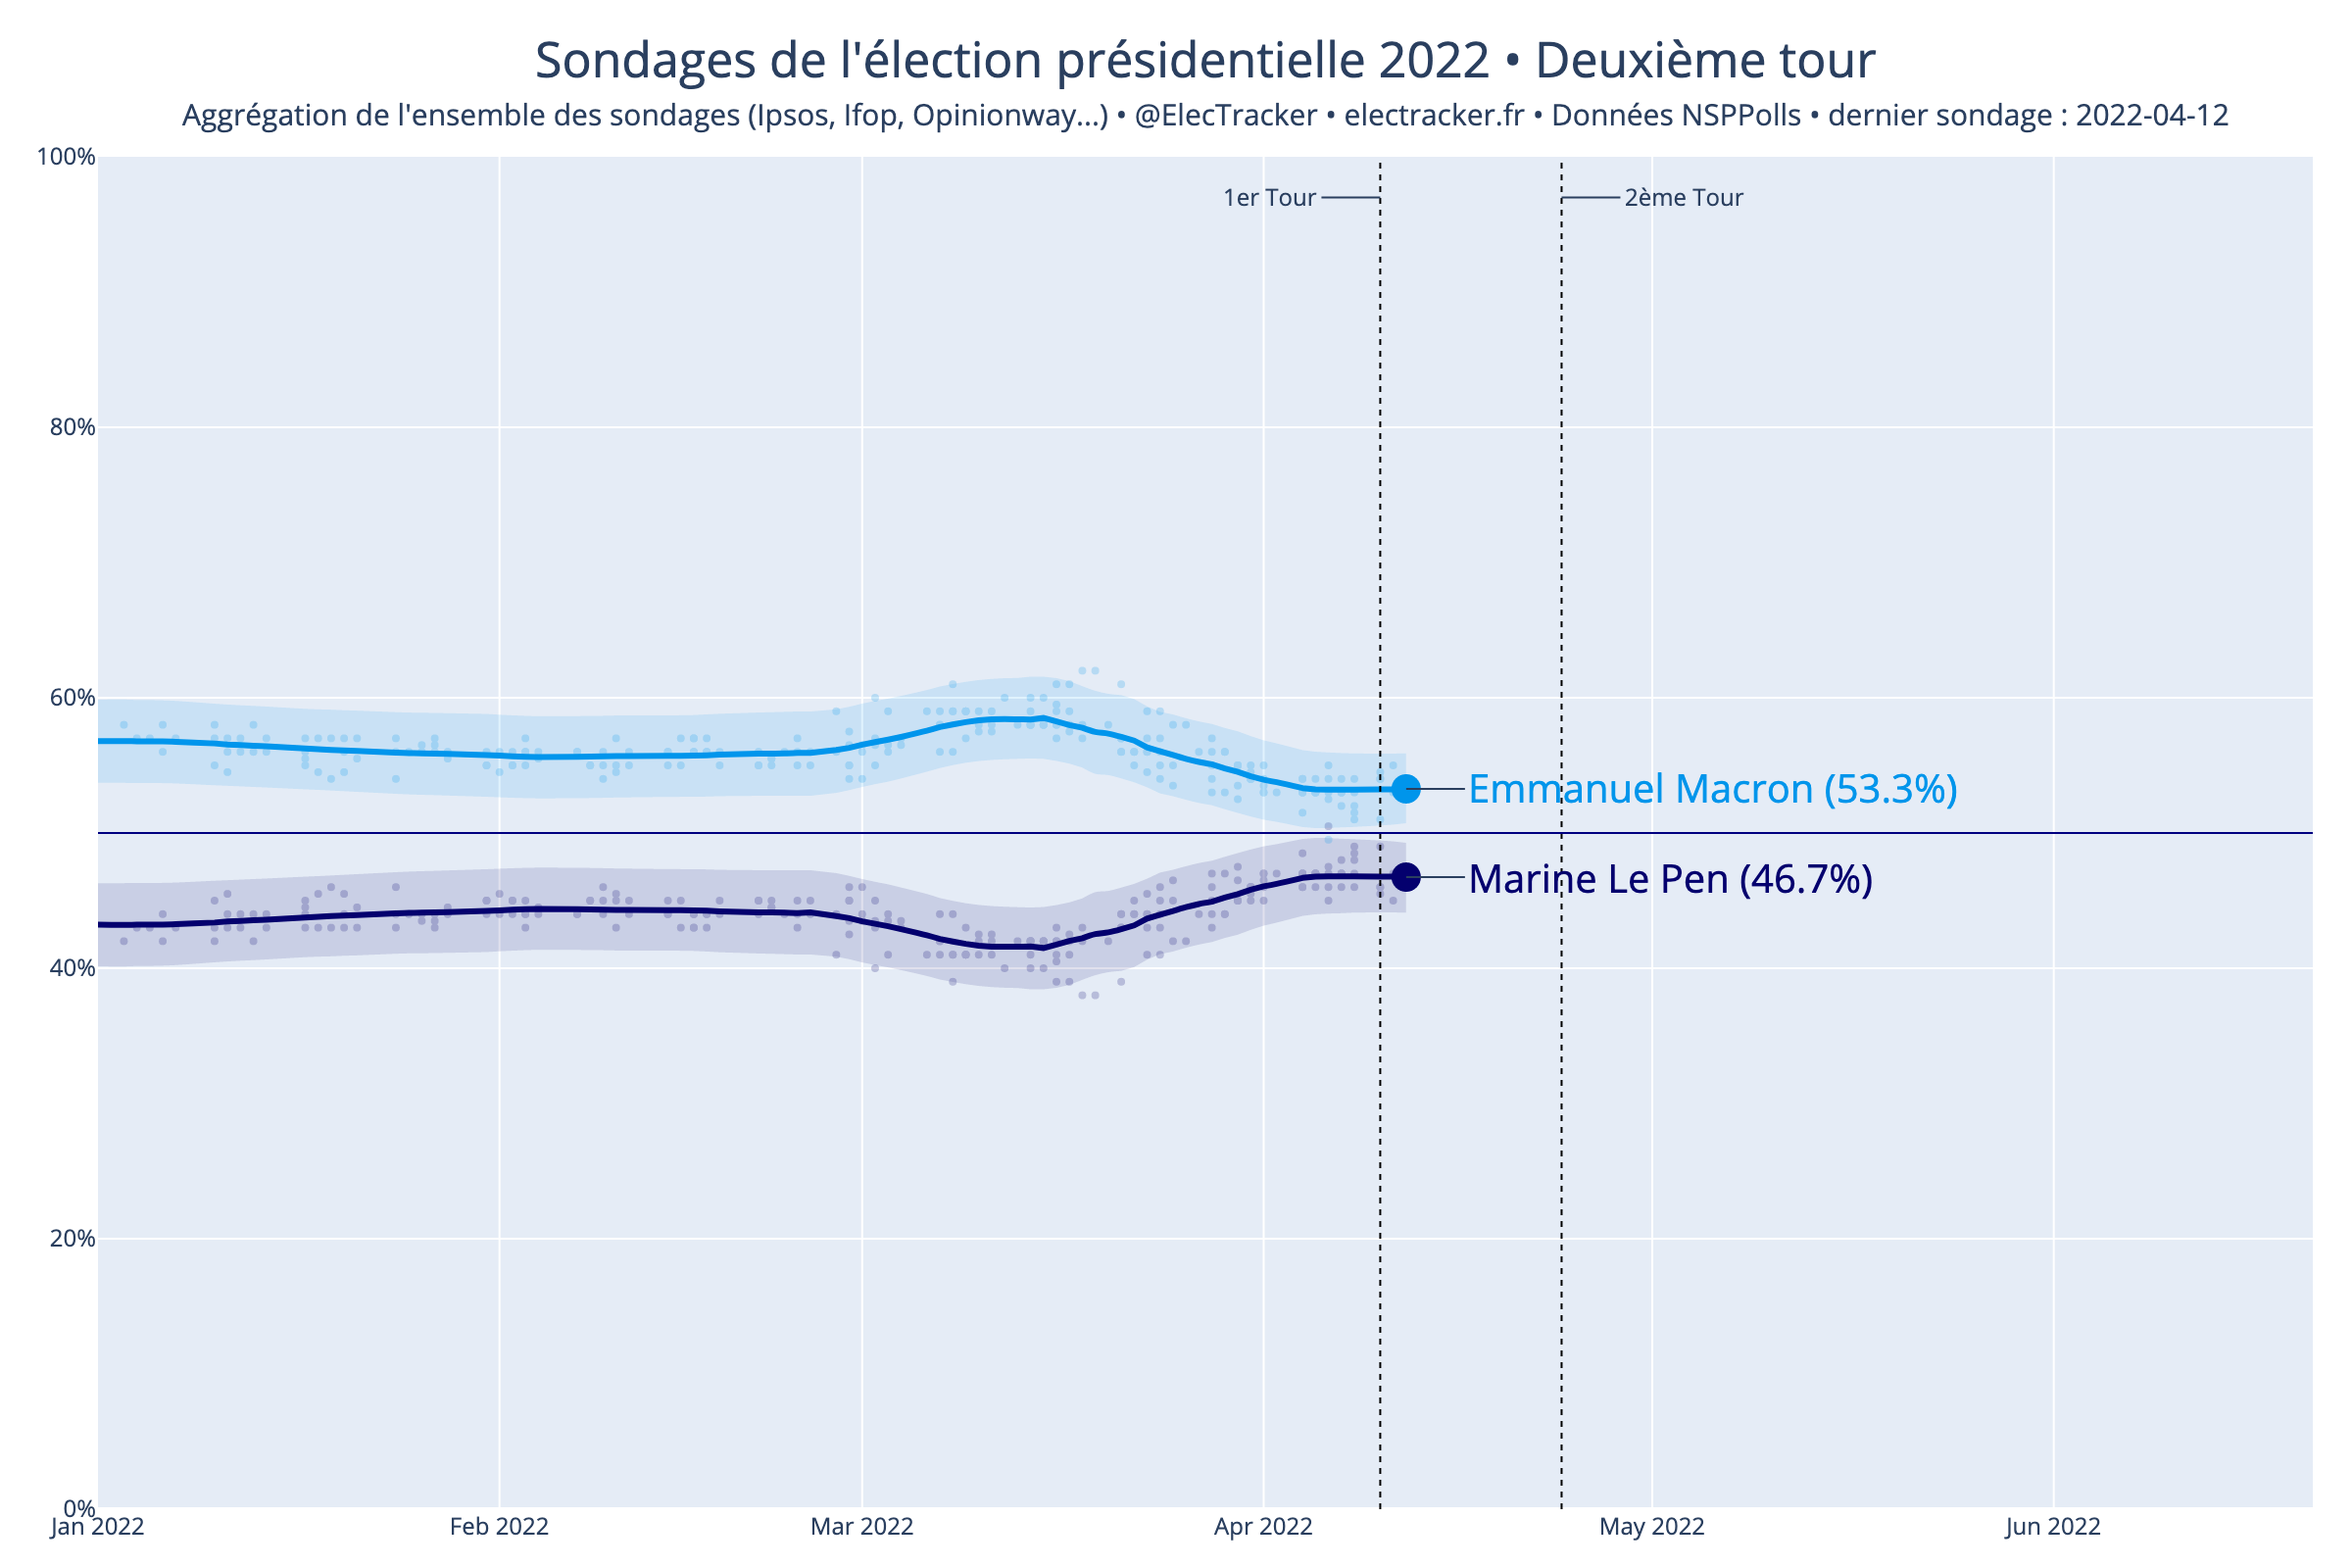
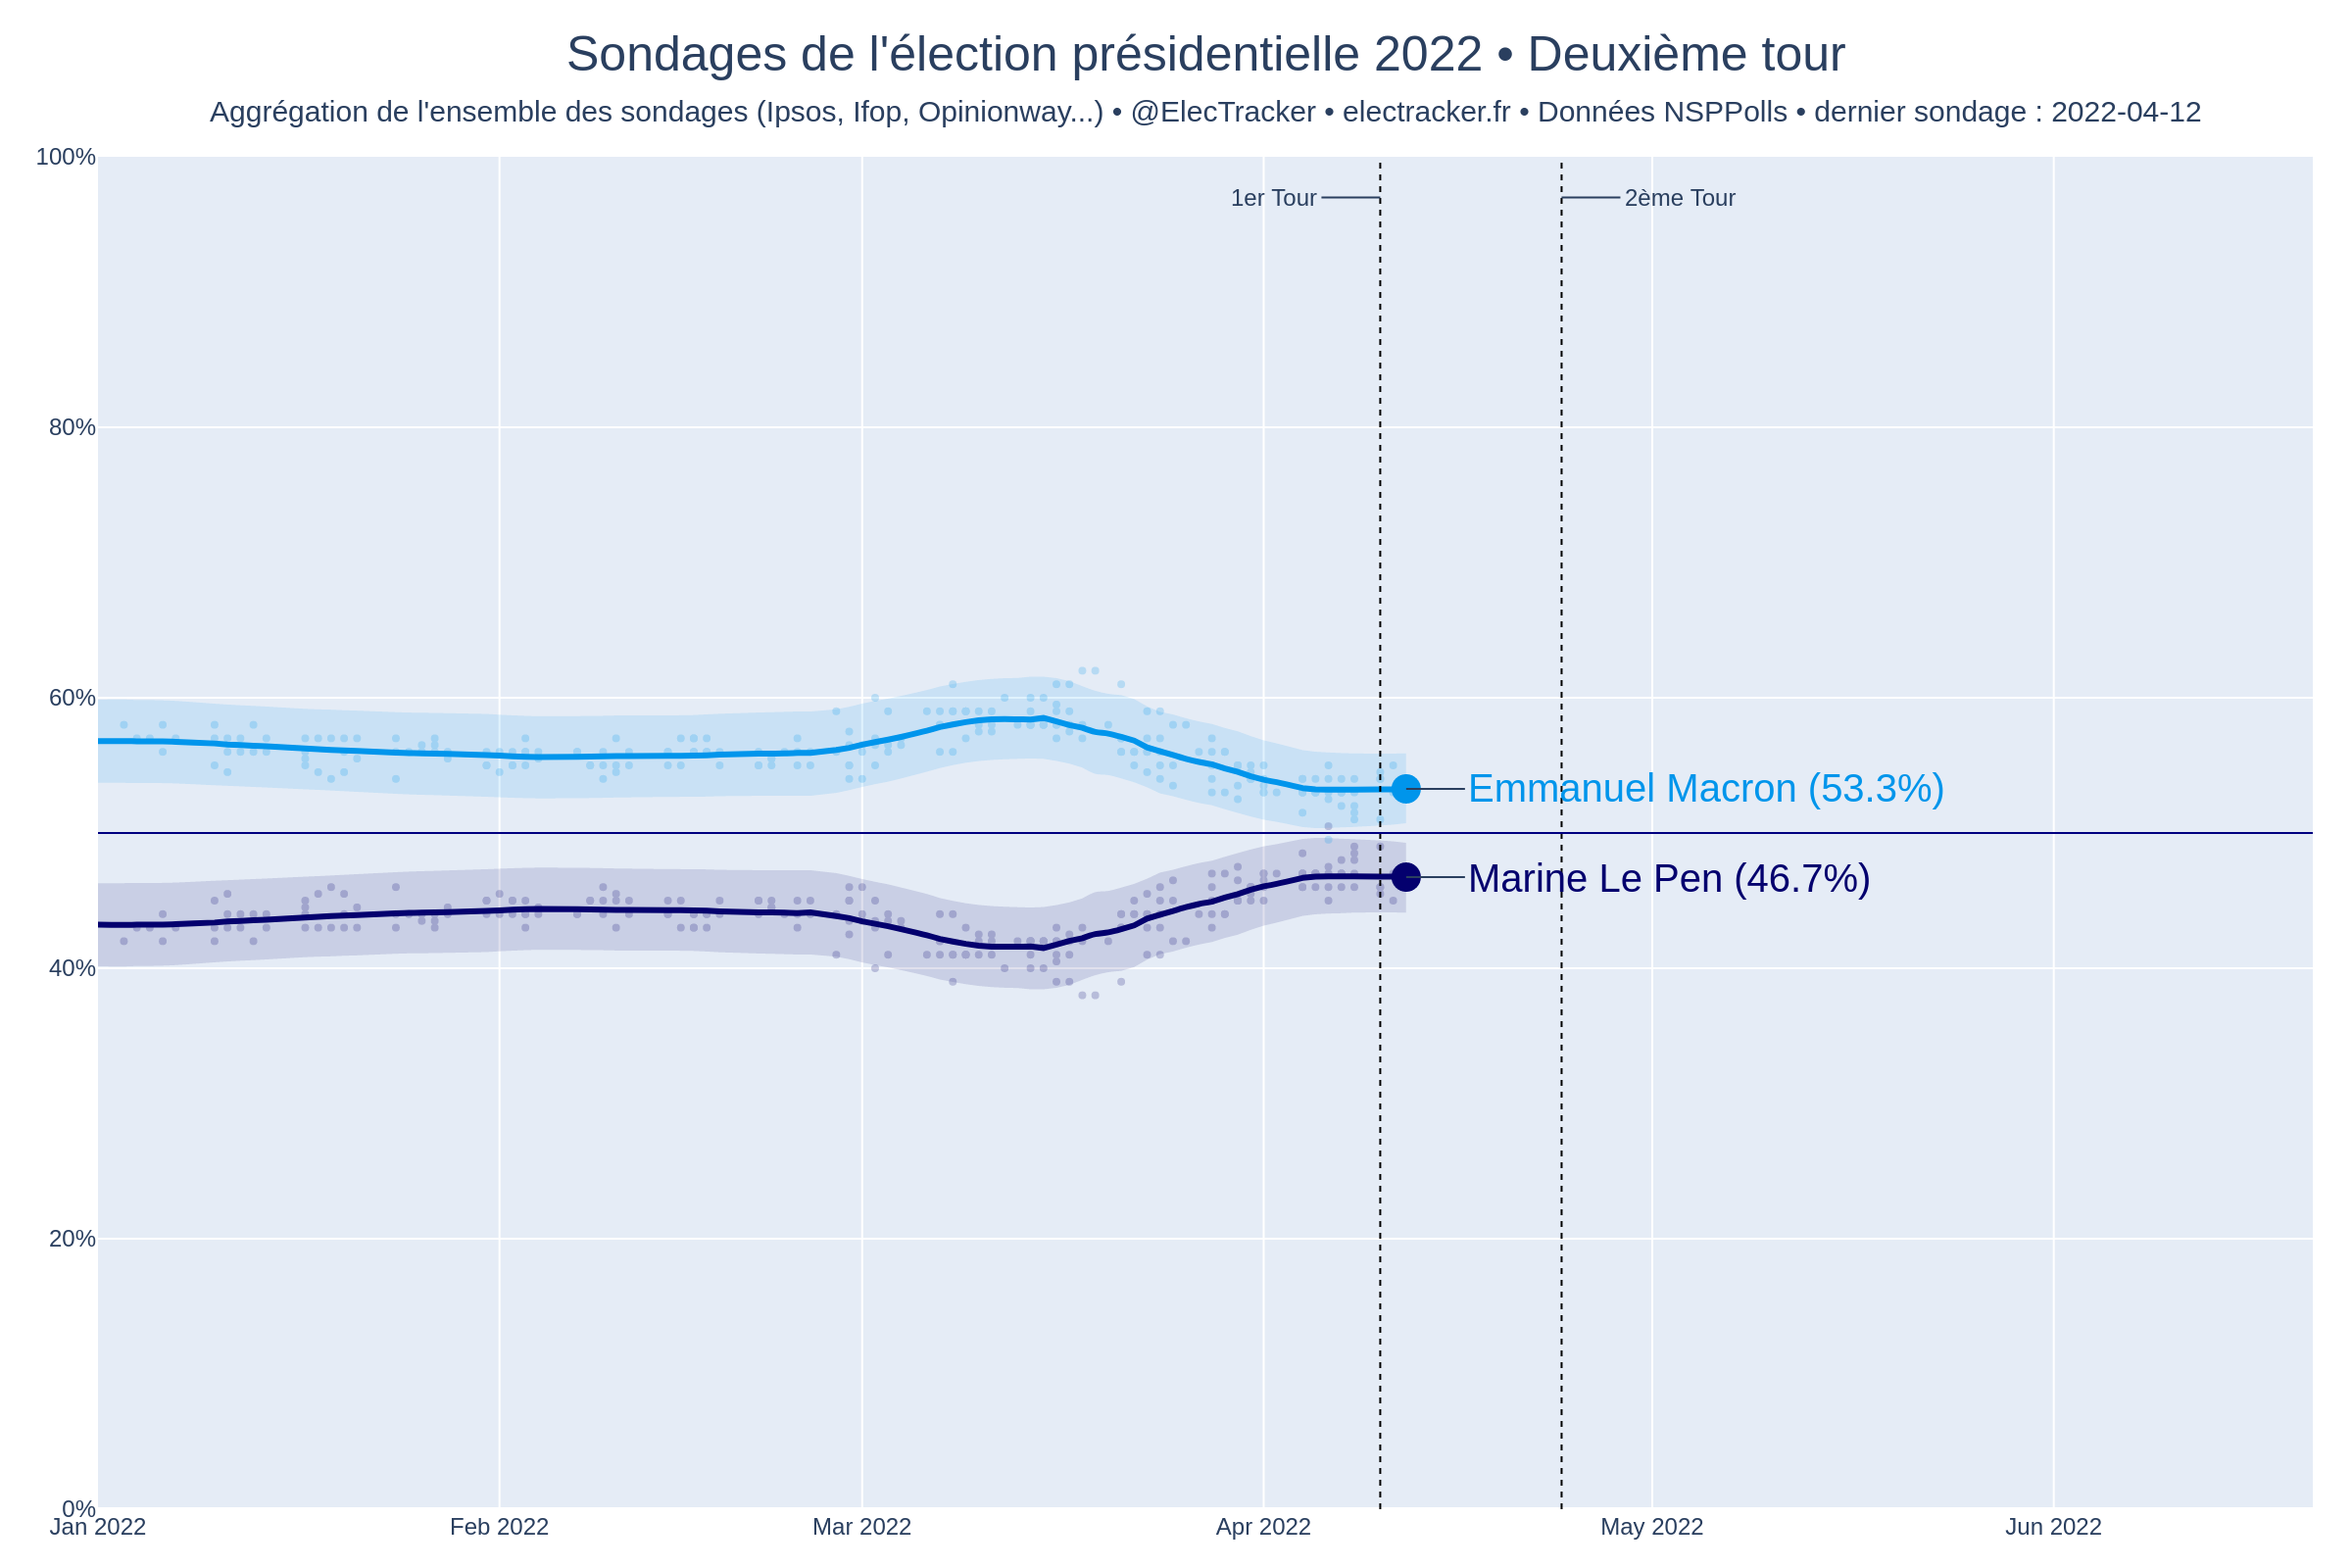
Apply automatic changes

diff --git a/html/derniers_sondages.html b/html/derniers_sondages.html
@@ -1,1 +1,1 @@
-<h3>Marine Le Pen • 47.8%</h3> 48.0% • (intervalle : 45.1% - 50.9%) • Elabe BFM TV, L'Express, SFR • Du 2022-04-10 au 2022-04-10<br> 25.0% • (intervalle : 22.5% - 27.5%) • Elabe BFM TV, L'Express, SFR • Du 2022-04-07 au 2022-04-08<br> 22.5% • (intervalle : 21.5% - 23.5%) • Ipsos Le Monde • Du 2022-04-08 au 2022-04-08<br> 23.0% • (intervalle : 20.4% - 25.6%) • Ipsos Le Parisien, France Info • Du 2022-04-06 au 2022-04-08<br> 24.0% • (intervalle : 22.0% - 26.0%) • Harris Interactive Challenges • Du 2022-04-07 au 2022-04-08<br> 24.0% • (intervalle : 22.3% - 25.7%) • Ifop Paris Match, LCI, Sud Radio • Du 2022-04-05 au 2022-04-08<br> 22.0% • (intervalle : 20.1% - 23.9%) • Opinion Way Les Echos, Radio Classique, Kea Partners • Du 2022-04-05 au 2022-04-08<br> 21.0% • (intervalle : 19.6% - 22.4%) • Cluster17 nan • Du 2022-04-06 au 2022-04-08<br> 23.0% • (intervalle : 20.4% - 25.6%) • Ipsos Le Parisien, France Info • Du 2022-04-05 au 2022-04-07<br> 23.0% • (intervalle : 20.4% - 25.6%) • BVA RTL, Orange • Du 2022-04-06 au 2022-04-07<br><br><h3>Emmanuel Macron • 52.2%</h3> 52.0% • (intervalle : 49.1% - 54.9%) • Elabe BFM TV, L'Express, SFR • Du 2022-04-10 au 2022-04-10<br> 26.0% • (intervalle : 24.2% - 27.8%) • Ifop Paris Match, LCI, Sud Radio • Du 2022-04-05 au 2022-04-08<br> 26.0% • (intervalle : 23.5% - 28.5%) • Elabe BFM TV, L'Express, SFR • Du 2022-04-07 au 2022-04-08<br> 26.0% • (intervalle : 24.0% - 28.0%) • Opinion Way Les Echos, Radio Classique, Kea Partners • Du 2022-04-05 au 2022-04-08<br> 26.5% • (intervalle : 25.5% - 27.5%) • Ipsos Le Monde • Du 2022-04-08 au 2022-04-08<br> 27.0% • (intervalle : 24.9% - 29.1%) • Harris Interactive Challenges • Du 2022-04-07 au 2022-04-08<br> 26.5% • (intervalle : 23.7% - 29.3%) • Ipsos Le Parisien, France Info • Du 2022-04-06 au 2022-04-08<br> 26.0% • (intervalle : 24.5% - 27.5%) • Cluster17 nan • Du 2022-04-06 au 2022-04-08<br> 26.0% • (intervalle : 23.3% - 28.7%) • BVA RTL, Orange • Du 2022-04-06 au 2022-04-07<br> 26.5% • (intervalle : 24.7% - 28.3%) • Ifop Paris Match, LCI, Sud Radio • Du 2022-04-04 au 2022-04-07<br><br>
+<h3>Marine Le Pen • 46.7%</h3> 48.0% • (intervalle : 45.1% - 50.9%) • Elabe BFM TV, L'Express, SFR • Du 2022-04-10 au 2022-04-10<br> 25.0% • (intervalle : 22.5% - 27.5%) • Elabe BFM TV, L'Express, SFR • Du 2022-04-07 au 2022-04-08<br> 22.5% • (intervalle : 21.5% - 23.5%) • Ipsos Le Monde • Du 2022-04-08 au 2022-04-08<br> 23.0% • (intervalle : 20.4% - 25.6%) • Ipsos Le Parisien, France Info • Du 2022-04-06 au 2022-04-08<br> 24.0% • (intervalle : 22.0% - 26.0%) • Harris Interactive Challenges • Du 2022-04-07 au 2022-04-08<br> 24.0% • (intervalle : 22.3% - 25.7%) • Ifop Paris Match, LCI, Sud Radio • Du 2022-04-05 au 2022-04-08<br> 22.0% • (intervalle : 20.1% - 23.9%) • Opinion Way Les Echos, Radio Classique, Kea Partners • Du 2022-04-05 au 2022-04-08<br> 21.0% • (intervalle : 19.6% - 22.4%) • Cluster17 nan • Du 2022-04-06 au 2022-04-08<br> 23.0% • (intervalle : 20.4% - 25.6%) • Ipsos Le Parisien, France Info • Du 2022-04-05 au 2022-04-07<br> 23.0% • (intervalle : 20.4% - 25.6%) • BVA RTL, Orange • Du 2022-04-06 au 2022-04-07<br><br><h3>Emmanuel Macron • 53.3%</h3> 52.0% • (intervalle : 49.1% - 54.9%) • Elabe BFM TV, L'Express, SFR • Du 2022-04-10 au 2022-04-10<br> 26.0% • (intervalle : 24.2% - 27.8%) • Ifop Paris Match, LCI, Sud Radio • Du 2022-04-05 au 2022-04-08<br> 26.0% • (intervalle : 23.5% - 28.5%) • Elabe BFM TV, L'Express, SFR • Du 2022-04-07 au 2022-04-08<br> 26.0% • (intervalle : 24.0% - 28.0%) • Opinion Way Les Echos, Radio Classique, Kea Partners • Du 2022-04-05 au 2022-04-08<br> 26.5% • (intervalle : 25.5% - 27.5%) • Ipsos Le Monde • Du 2022-04-08 au 2022-04-08<br> 27.0% • (intervalle : 24.9% - 29.1%) • Harris Interactive Challenges • Du 2022-04-07 au 2022-04-08<br> 26.5% • (intervalle : 23.7% - 29.3%) • Ipsos Le Parisien, France Info • Du 2022-04-06 au 2022-04-08<br> 26.0% • (intervalle : 24.5% - 27.5%) • Cluster17 nan • Du 2022-04-06 au 2022-04-08<br> 26.0% • (intervalle : 23.3% - 28.7%) • BVA RTL, Orange • Du 2022-04-06 au 2022-04-07<br> 26.5% • (intervalle : 24.7% - 28.3%) • Ifop Paris Match, LCI, Sud Radio • Du 2022-04-04 au 2022-04-07<br><br>
